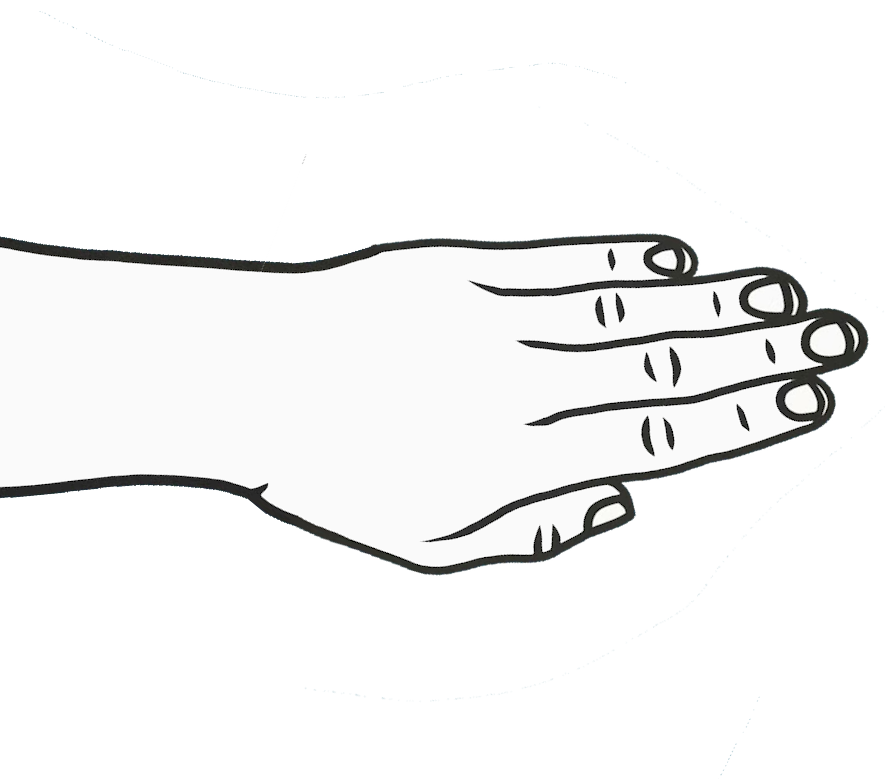
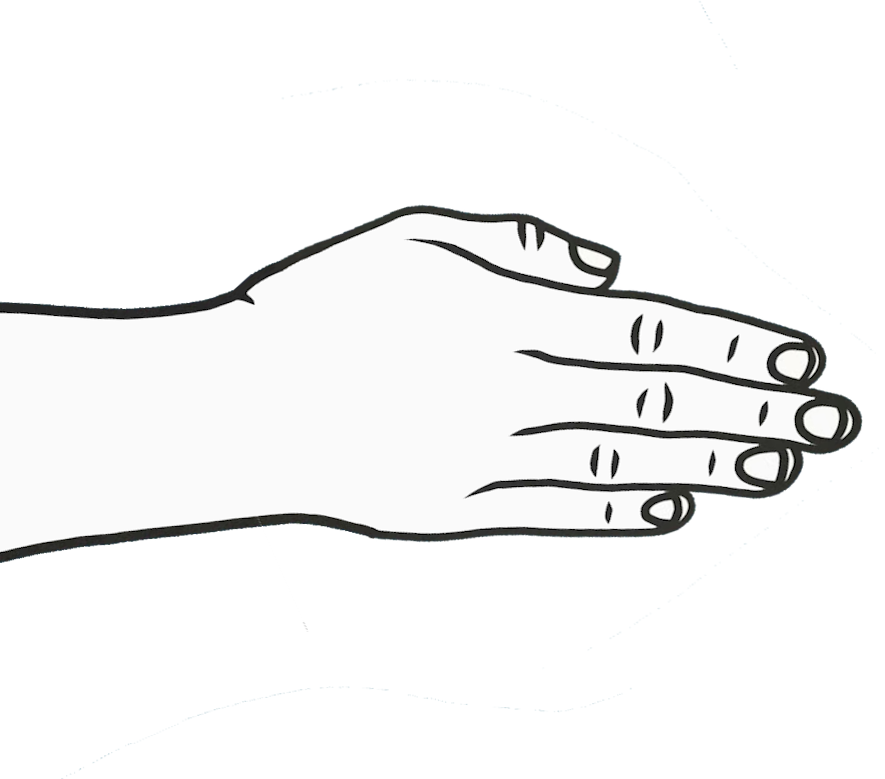
Finish Coding Animations and Outputs

Changed region(s): [[0.0, 0.2465, 1.0, 0.7394]]

diff --git a/assets/js/rps_opponent.js b/assets/js/rps_opponent.js
@@ -3,7 +3,7 @@ document.addEventListener("DOMContentLoaded", () => {
   // Your code here
 
   var score = [0, 0];
-
+  var games = 0;
   // Get the elements from the HTML
   var playerScore = document.getElementById("player-score");
   var computerScore = document.getElementById("computer-score");
@@ -11,6 +11,7 @@ document.addEventListener("DOMContentLoaded", () => {
   var paper = document.getElementById("paper");
   var scissors = document.getElementById("scissors");
   var result = document.getElementById("result");
+  var gamesPlayed = document.getElementById("games-played");
 
   // Get the elements from the HTML
   var handRight = document.getElementById("hand-right");
@@ -26,19 +27,42 @@ document.addEventListener("DOMContentLoaded", () => {
     // 0 = rock, 1 = paper, 2 = scissors
     var handRight = document.getElementById("hand-right");
     var handLeft = document.getElementById("hand-left");
-    if (playerSelection === computerSelection) {
-      return "It's a tie!";
+
+    if (playerSelection === 0 && computerSelection === 0) {
+      handRight.setAttribute("src", "./assets/images/rock_hand_right.png");
+      handLeft.setAttribute("src", "./assets/images/rock_hand.png");
+      return "You chose rock. So did God. It's a tie!";
+    } else if (playerSelection === 1 && computerSelection === 1) {
+      handRight.setAttribute("src", "./assets/images/paper_hand_right.png");
+      handLeft.setAttribute("src", "./assets/images/paper_hand.png");
+      return "You chose paper. So did God. It's a tie!";
+    } else if (playerSelection === 2 && computerSelection === 2) {
+      handRight.setAttribute("src", "./assets/images/scissors_hand_right.png");
+      handLeft.setAttribute("src", "./assets/images/scissors_hand.png");
+      return "You chose scissors. So did God. It's a tie!";
+    } else if (playerSelection === 0 && computerSelection === 1) {
+      handRight.setAttribute("src", "./assets/images/paper_hand_right.png");
+      handLeft.setAttribute("src", "./assets/images/rock_hand.png");
+      return "You lose! Paper beats rock!";
     } else if (playerSelection === 0 && computerSelection === 2) {
-      // handRight.setAttribute("src", "./assets/images/rock_hand.png");
-      // handLeft.setAttribute("src", "./assets/images/scissors_hand.png");
+      handRight.setAttribute("src", "./assets/images/scissors_hand_right.png");
+      handLeft.setAttribute("src", "./assets/images/rock_hand.png");
       return "You win! Rock beats scissors!";
     } else if (playerSelection === 1 && computerSelection === 0) {
-      // handRight.setAttribute("src", "./assets/images/paper_hand.png");
-      // handLeft.setAttribute("src", "./assets/images/rock_hand_right.png");
+      handRight.setAttribute("src", "./assets/images/rock_hand_right.png");
+      handLeft.setAttribute("src", "./assets/images/paper_hand.png");
       return "You win! Paper beats rock!";
+    } else if (playerSelection === 1 && computerSelection === 2) {
+      handRight.setAttribute("src", "./assets/images/scissors_hand_right.png");
+      handLeft.setAttribute("src", "./assets/images/paper_hand.png");
+      return "You lose! Scissors beats paper!";
+    } else if (playerSelection === 2 && computerSelection === 0) {
+      handRight.setAttribute("src", "./assets/images/rock_hand_right.png");
+      handLeft.setAttribute("src", "./assets/images/scissors_hand.png");
+      return "You lose! Rock beats scissors!";
     } else if (playerSelection === 2 && computerSelection === 1) {
-      // handRight.setAttribute("src", "./assets/images/scissors_hand.png");
-      // handLeft.setAttribute("src", "./assets/images/paper_hand.png");
+      handRight.setAttribute("src", "./assets/images/paper_hand_right.png");
+      handLeft.setAttribute("src", "./assets/images/scissors_hand.png");
       return "You win! Scissors beats paper!";
     } else {
       return "You lose!";
@@ -47,18 +71,22 @@ document.addEventListener("DOMContentLoaded", () => {
 
   document.getElementById("rock").addEventListener("click", function () {
     var playerSelection = 0;
+    games++;
     var computerSelection = computerPlay();
     result.textContent = playRound(playerSelection, computerSelection);
     if (result.textContent.includes("win")) {
       score[0]++;
     } else if (result.textContent.includes("lose")) {
       score[1]++;
+    } else if (result.textContent.includes("tie")) {
+      games++;
     }
     updateScore();
   });
 
   document.getElementById("paper").addEventListener("click", function () {
     var playerSelection = 1;
+    games++;
     var computerSelection = computerPlay();
     result.textContent = playRound(playerSelection, computerSelection);
     if (result.textContent.includes("win")) {
@@ -71,6 +99,7 @@ document.addEventListener("DOMContentLoaded", () => {
 
   document.getElementById("scissors").addEventListener("click", function () {
     var playerSelection = 2;
+    games++;
     var computerSelection = computerPlay();
     result.textContent = playRound(playerSelection, computerSelection);
     if (result.textContent.includes("win")) {
@@ -85,6 +114,7 @@ document.addEventListener("DOMContentLoaded", () => {
   function updateScore() {
     playerScore.textContent = score[0];
     computerScore.textContent = score[1];
+    gamesPlayed.textContent = `Round ${games}`;
   }
 
   // Animation for the hands / buttons

diff --git a/index.html b/index.html
@@ -39,8 +39,11 @@
       <section class="results">
         <div class="results-div">
           <h2>RESULTS</h2>
-          <div id="result">
+          <div id="result" class="larger-text">
             <!-- auto update the result here -->
+          </div>
+          <div>
+            <span class="games larger-text" id="games-played"></span>
           </div>
         </div>
 

diff --git a/assets/css/style.css b/assets/css/style.css
@@ -208,6 +208,10 @@ h1 {
   margin: 0 auto;
 }
 
+.larger-text {
+  font-size: 1.5rem;
+}
+
 .hand-left img {
   width: auto;
   max-width: 100%;
